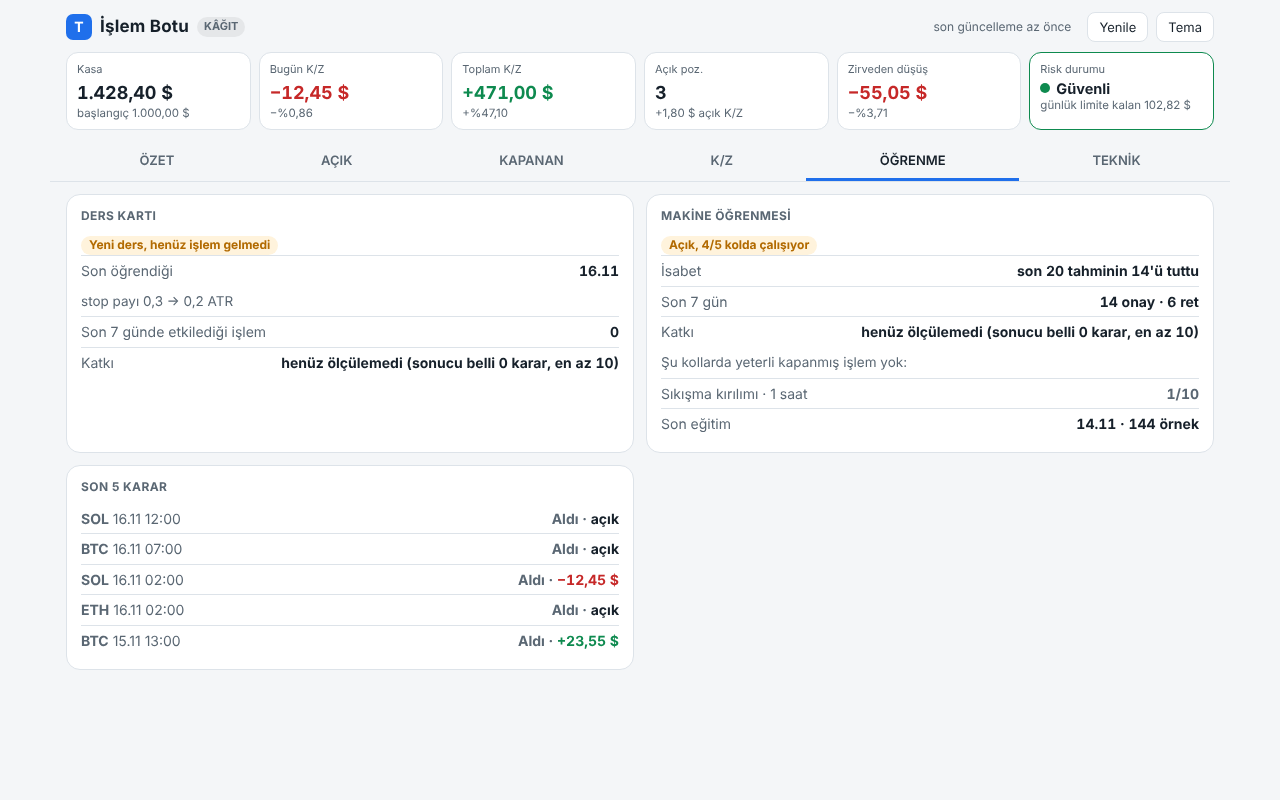
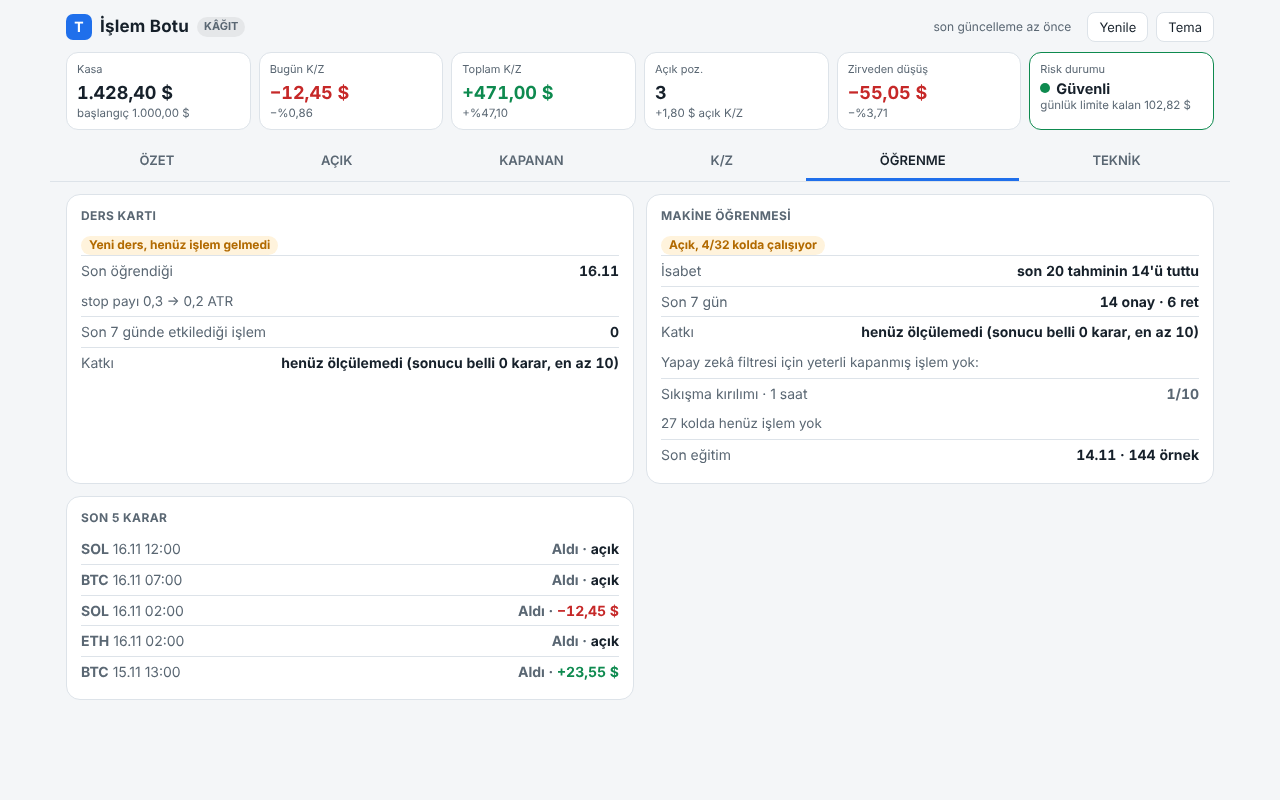
Panel: ML kapsam paydasi kagit ayarindaki kol listesi; esik motorun sabitinden
- "ML 4/32 kolda calisiyor"; islemi olup <esik olan kollar N/esik, hic islemi olmayanlar tek satir
- esik trader_engine.ogrenme_filtre.MIN_ISLEM'den okunur (kopya yok)

Claude-Session: https://claude.ai/code/session_011HUfhJNY3zwXSAaAirJryd

diff --git a/trader/src/trader_panel/static/panel.js b/trader/src/trader_panel/static/panel.js
@@ -400,10 +400,11 @@
       add(mk, add(el('div'), rozetRenk(m.durum, m.renk)));
       add(mk, m.isabet.olculemedi ? satir('İsabet', m.isabet.olculemedi) : satir('İsabet', 'son ' + m.isabet.n + ' tahminin ' + m.isabet.tutan + ek(m.isabet.tutan) + ' tuttu'));
       add(mk, satir('Son 7 gün', m.onay_7g + ' onay · ' + m.ret_7g + ' ret'), katkiSatir(m.katki));
-      if (m.kapsam && m.kapsam.eksik.length) {
-        add(mk, el('div', 'yok', 'Şu kollarda yeterli kapanmış işlem yok:'));
+      if (m.kapsam && (m.kapsam.eksik.length || m.kapsam.bos)) {
+        add(mk, el('div', 'yok', 'Yapay zekâ filtresi için yeterli kapanmış işlem yok:'));
         m.kapsam.eksik.forEach(function (e) { add(mk, satir(e.kol, e.n + '/' + e.en_az, 'sol')); });
         if (m.kapsam.eksik_fazla) add(mk, el('div', 'yok', '… ve ' + m.kapsam.eksik_fazla + ' kol daha'));
+        if (m.kapsam.bos) add(mk, el('div', 'yok', m.kapsam.bos + ' kolda henüz işlem yok'));
       }
       if (m.egitim) add(mk, satir('Son eğitim', m.egitim.tarih + ' · ' + m.egitim.ornek + ' örnek'));
       add(ig, mk);

diff --git a/trader/src/trader_core/panel_pano.py b/trader/src/trader_core/panel_pano.py
@@ -21,7 +21,6 @@ from . import tg_sade as TS
 TR = P.TR
 MIN_ORAN = 5            # kazanma orani / ort. kazanc-kayip icin asgari kapanan islem
 MIN_ETKI = 10           # ders / ML katkisi icin asgari sonuclu karar
-MIN_KOL_ISLEM = 10      # kol basina ML filtresi icin asgari kapanmis islem (motor: ogrenme_filtre.MIN_ISLEM)
 MIN_ISABET = 10         # ML isabeti icin asgari sonuclu tahmin
 
 REJIM_TR = {"range": "yatay piyasa", "trend": "trend", "trending": "trend", "ranging": "yatay piyasa"}
@@ -290,6 +289,13 @@ def kz_view(ctx: Ctx, start: float | None, now: datetime, curve: Mapping | None,
 
 
 # ----------------------------------------------------------------------------- ogrenme (ders + ML)
+def min_kol_islem() -> int:
+    """Kol basina ML filtresi icin asgari kapanmis islem: motorun sabiti (kopya degil). Dinamik ice aktarma: panel kaynak
+    taramasi `trader_engine` import satirini yasaklar; yalniz bu salt okunur sabit okunur."""
+    import importlib  # noqa: PLC0415
+    return int(importlib.import_module("trader_engine.ogrenme_filtre").MIN_ISLEM)
+
+
 def katki_olculemedi(n: int) -> dict:
     """Katki icin kendi sayisi: sonucu belli karar sayisi (onay/ret sayisindan farkli olabilir)."""
     return {"olculemedi": f"Henüz ölçülemedi (sonucu belli {n} karar, en az {MIN_ETKI})"}
@@ -418,7 +424,9 @@ def ml_view(path: str, ctx: Ctx, now: datetime, ml_filtre: Mapping | None) -> di
     else:
         acik, kolsay = n_paket > 0, n_paket
     arm_of = lambda d: getattr(d, "arm_id", None) or f"{d.setup}@{d.trigger_tf}"  # noqa: E731
-    tum = sorted({arm_of(d) for d in ctx.decisions if d.final_action == "entered"})
+    en_az = min_kol_islem()
+    cfg_kollar = list(P.paper_maps()[0])
+    tum = cfg_kollar or sorted({arm_of(d) for d in ctx.decisions if d.final_action == "entered"})    # payda: kagit ayarindaki kol listesi
     kapali = {}
     for t in ctx.closed:
         dd = ctx.dec.get(t.decision_id)
@@ -427,9 +435,11 @@ def ml_view(path: str, ctx: Ctx, now: datetime, ml_filtre: Mapping | None) -> di
     kapsam = None
     if acik and tum:
         aktif = [a for a in tum if a in paket_kur] if paket_kur else []
-        eksik = sorted(((a, kapali.get(a, 0)) for a in tum if a not in aktif), key=lambda x: -x[1])
-        kapsam = {"aktif": len(aktif), "toplam": len(tum), "en_az": MIN_KOL_ISLEM,
-                  "eksik": [{"kol": TS.kol_adi(a), "n": n, "en_az": MIN_KOL_ISLEM} for a, n in eksik[:6]], "eksik_fazla": max(len(eksik) - 6, 0)}
+        kalan = [a for a in tum if a not in aktif]
+        kismen = sorted(((a, kapali.get(a, 0)) for a in kalan if kapali.get(a, 0) > 0), key=lambda x: -x[1])
+        kapsam = {"aktif": len(aktif), "toplam": len(tum), "en_az": en_az,
+                  "eksik": [{"kol": TS.kol_adi(a), "n": n, "en_az": en_az} for a, n in kismen[:6]],
+                  "eksik_fazla": max(len(kismen) - 6, 0), "bos": sum(1 for a in kalan if kapali.get(a, 0) == 0)}
         durum = f"Açık, {len(aktif)}/{len(tum)} kolda çalışıyor"
         renk = "yesil" if len(aktif) == len(tum) else "sari"
     else:

diff --git a/trader/tests/test_panel_pano.py b/trader/tests/test_panel_pano.py
@@ -198,3 +198,12 @@ def test_partial_state_is_not_healthy_and_says_why():
 
 def test_katki_label_uses_resolved_count():
     assert PP.katki_olculemedi(0) == {"olculemedi": "Henüz ölçülemedi (sonucu belli 0 karar, en az 10)"}
+
+
+def test_ml_denominator_is_paper_config_arms_and_threshold_from_engine():
+    from trader_engine import ogrenme_filtre as OF
+    assert PP.min_kol_islem() == OF.MIN_ISLEM
+    arms = P.paper_maps()[0]
+    assert len(arms) >= 9                                         # payda: kagit ayarindaki gercek kol listesi
+    src = (ROOT / "src/trader_core/panel_pano.py").read_text(encoding="utf-8")
+    assert "paper_maps()[0]" in src and "MIN_KOL_ISLEM" not in src
